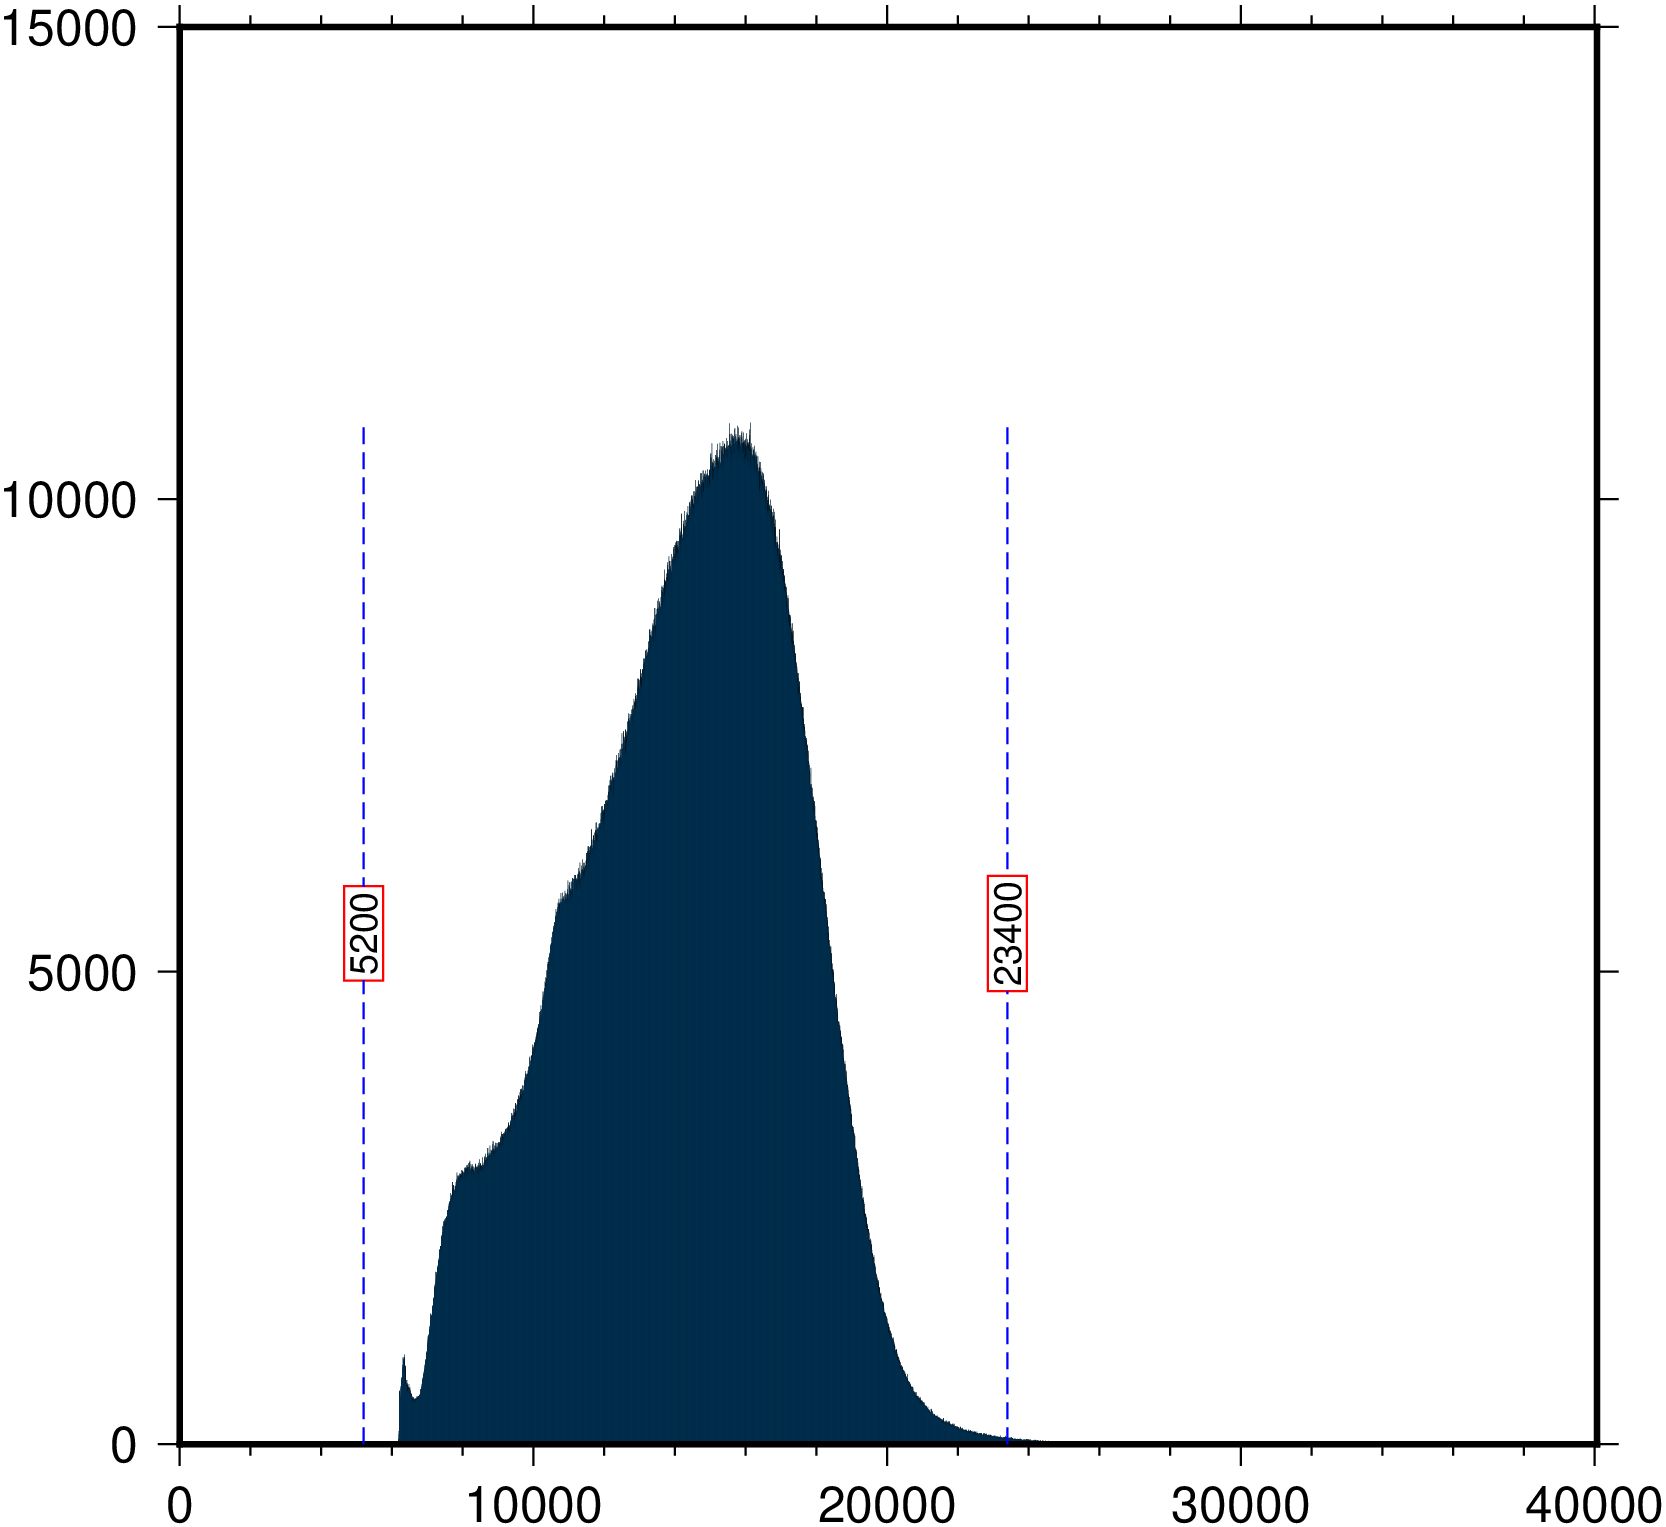
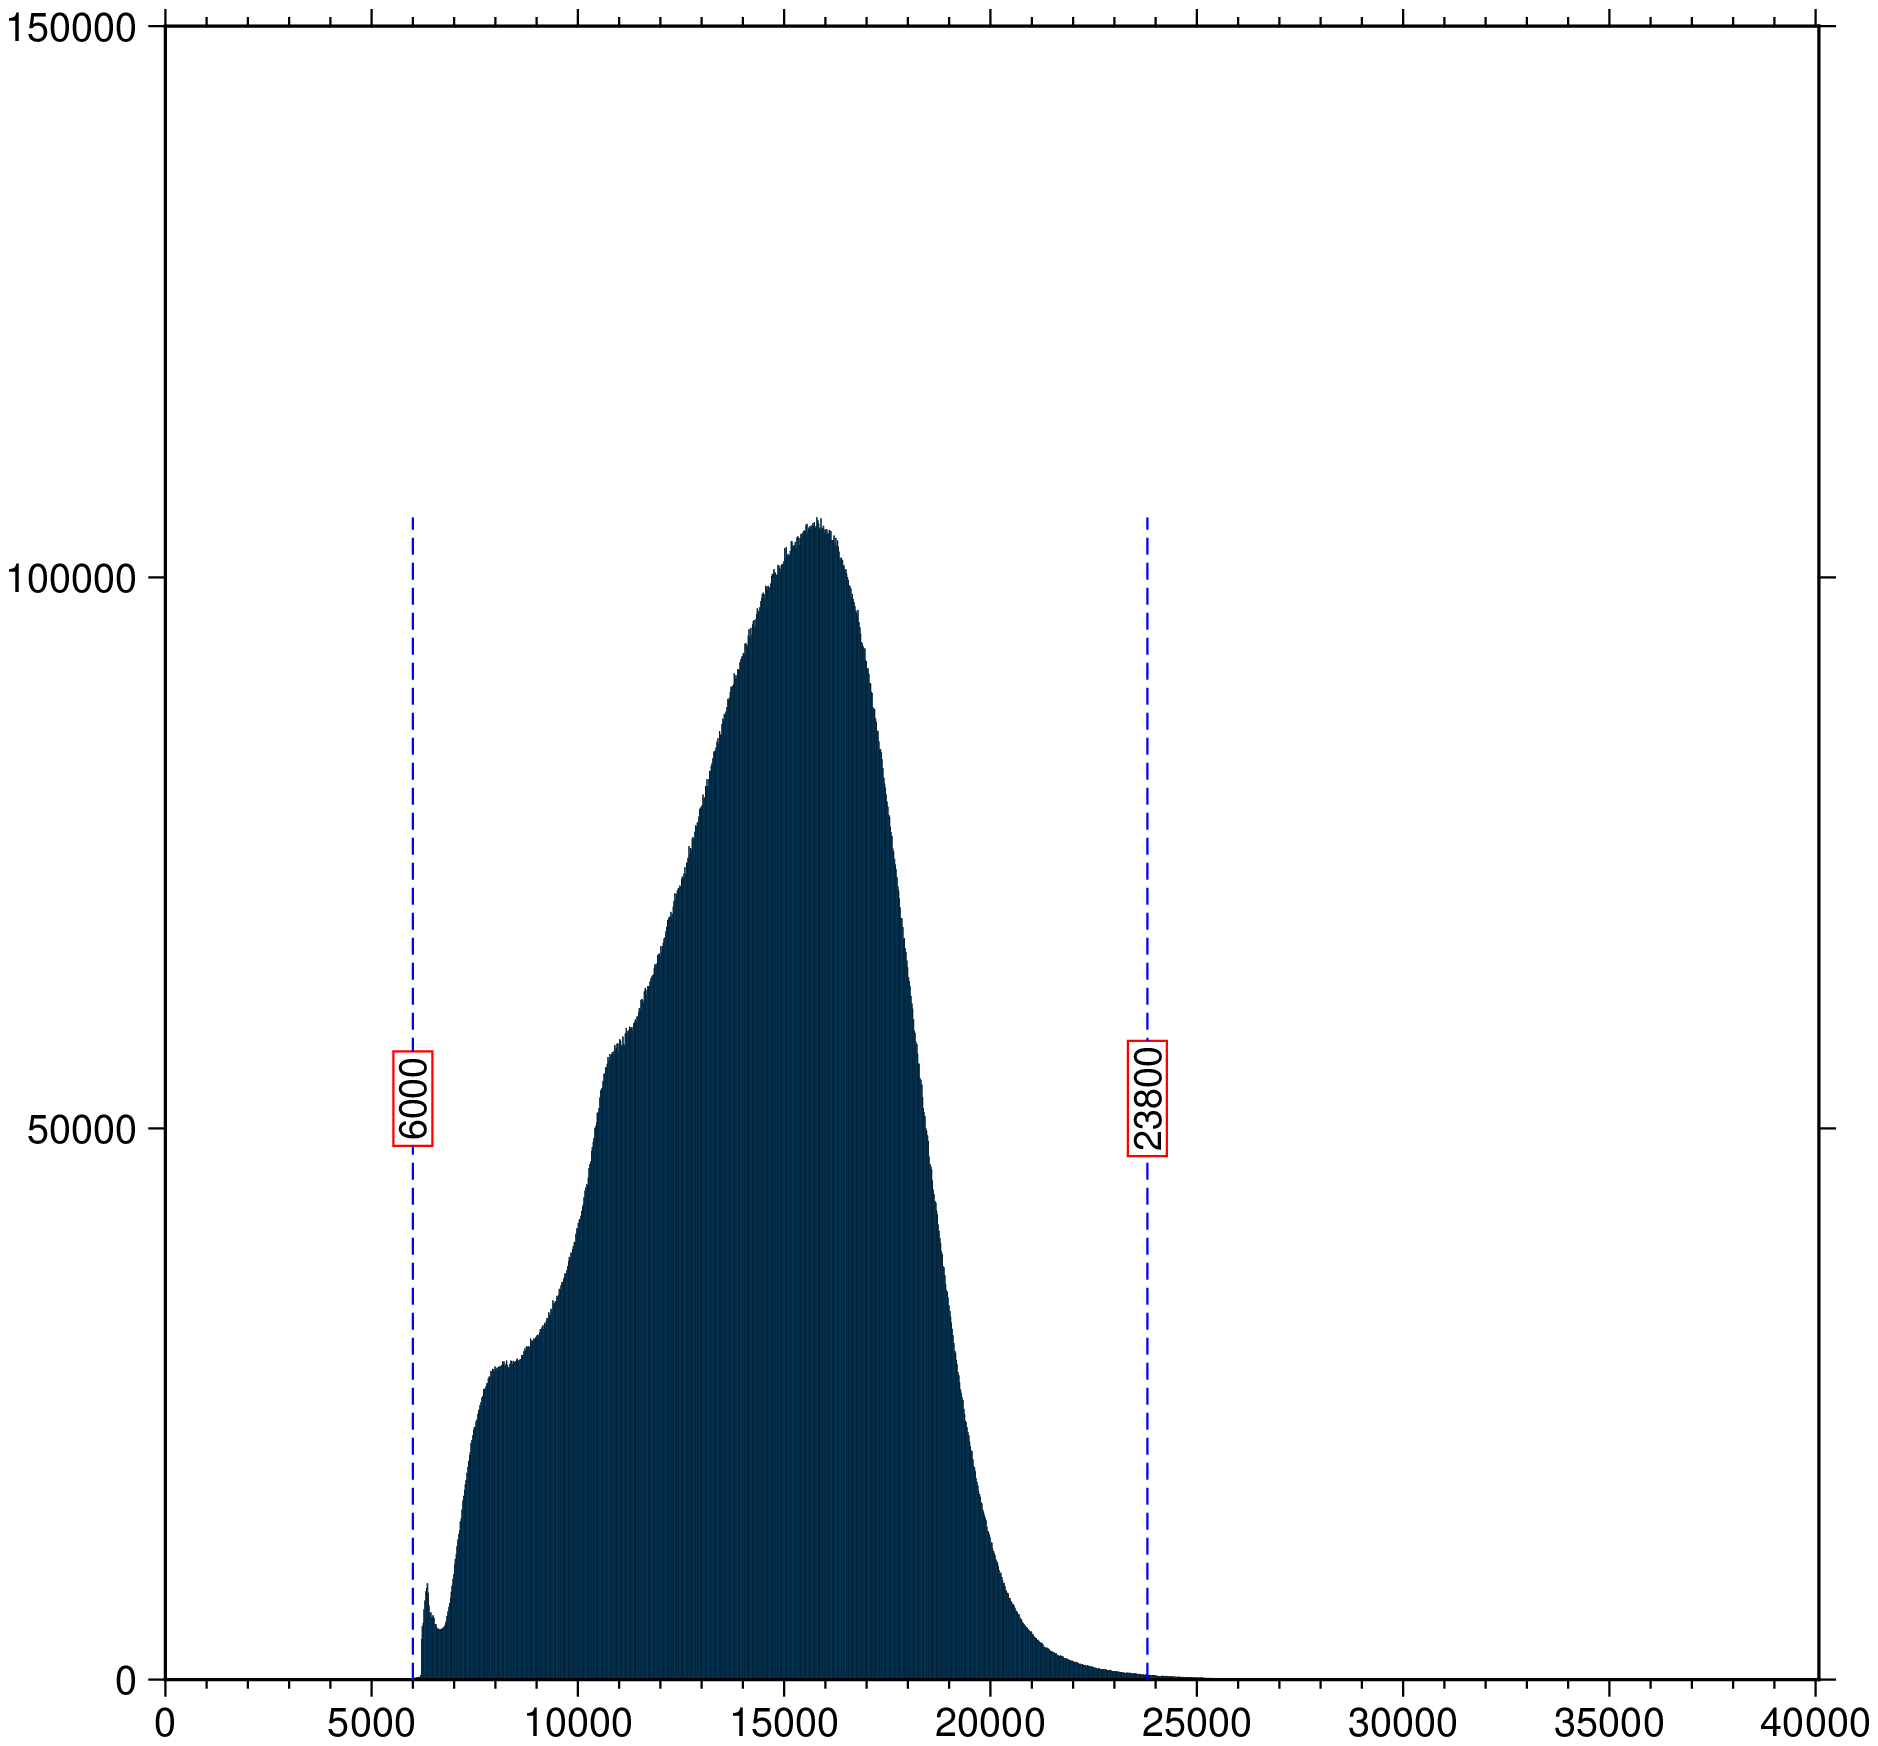
Add image with a true color composition.

diff --git a/docs/src/gallery/Landsat8/histogram_stretch.md b/docs/src/gallery/Landsat8/histogram_stretch.md
@@ -3,13 +3,13 @@
 The data used in this example is the band 4 (red channel) of a Landsat 8 scene. Those are relatively big images (~116 MB) so we will download it first and take that into account when the results of the commands bellow do not show instantly.
 
 ```julia
-I = gmtread("/vsicurl/http://landsat-pds.s3.amazonaws.com/c1/L8/037/034/LC08_L1TP_037034_20160712_20170221_01_T1/LC08_L1TP_037034_20160712_20170221_01_T1_B4.TIF");
+Ir = gmtread("/vsicurl/http://landsat-pds.s3.amazonaws.com/c1/L8/037/034/LC08_L1TP_037034_20160712_20170221_01_T1/LC08_L1TP_037034_20160712_20170221_01_T1_B4.TIF");
 ```
 
 and have a look at what we got
 
 ```julia
-imshow(I)
+imshow(Ir)
 ```
 
 ```@raw html
@@ -23,21 +23,42 @@ Well that is true and has one explanation. Modern satellite data is acquired wit
 To see this better, let's look at the image's histogram.
 
 ```julia
-histogram(I, auto=true, bin=20, show=true)
+histogram(Ir, auto=true, bin=20, show=true)
 ```
 
 ```@raw html
 <img src="../b4hist.png" width="500" class="center"/>
 ```
 
-We have used here the option **auto**=*true* that will try to guess where the data in histogram plot starts and ~ ends. It did behave well and we will use those numbers to do an operation that is called *histogram stretch* that consists in picking only part of the histogram and stretch it to [0 255]. And while at it we van visually observe that the limit [6000 24000] seems slightly better than the automatic one. Note that in fact we have data to the 40000 DN (Digital Number) but they are very few and at the end we must choose a balance to show *almos all* DNs and not making the image too dark. Reducing the higher value to 23400 would have made the image sligthy lighter.
+We have used here the option **auto**=*true* that will try to guess where the data in histogram plot starts and ~ ends. It did behave well and we will use those numbers to do an operation that is called *histogram stretch* that consists in picking only part of the histogram and stretch it to [0 255]. Note that in fact we have data to the 40000 DN (Digital Number) but they are very few and at the end we must choose a balance to show *almost all* DNs and not making the image too dark.
 
 ```julia
-imshow(I, stretch=[6000 25000])
+imshow(I, stretch=[6000 23800])
 ```
 
 ```@raw html
 <img src="../b4stretched.png" width="700" class="center"/>
+```
+
+Now that we feel confident with the auto-stretching algorithm we can create a true color image. True color images
+are obtained by inserting the Landsat8 band 4 in the Red channel, band 3 in Green and band 2 in Blue. Looking at
+the file name that we downloaded it's easy to guess that bands "...T1_B3.TIF" and "...T1_B2.TIF" contain the
+green and blue channels that we need. So download them (takes a little time)
+
+```julia
+Ig = gmtread("/vsicurl/http://landsat-pds.s3.amazonaws.com/c1/L8/037/034/LC08_L1TP_037034_20160712_20170221_01_T1/LC08_L1TP_037034_20160712_20170221_01_T1_B3.TIF");
+
+Ib = gmtread("/vsicurl/http://landsat-pds.s3.amazonaws.com/c1/L8/037/034/LC08_L1TP_037034_20160712_20170221_01_T1/LC08_L1TP_037034_20160712_20170221_01_T1_B2.TIF");
+```
+
+and compose a true color image with the function `truecolor()` that will do the auto-stretching automatically for us
+
+```julia
+Irgb = truecolor(Ir, Ig, Ib);
+```
+
+```@raw html
+<img src="../truecolor.png" width="700" class="center"/>
 ```
 
 ---
